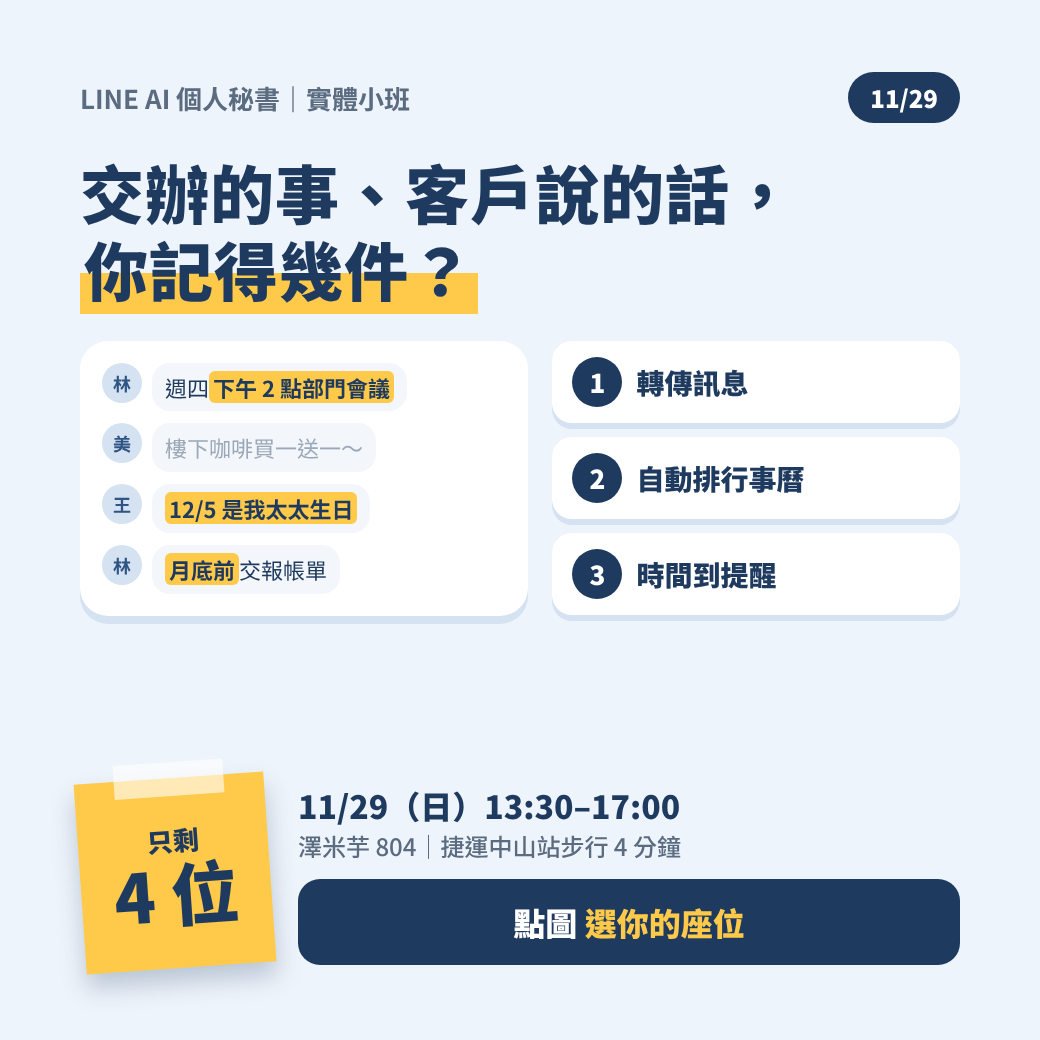
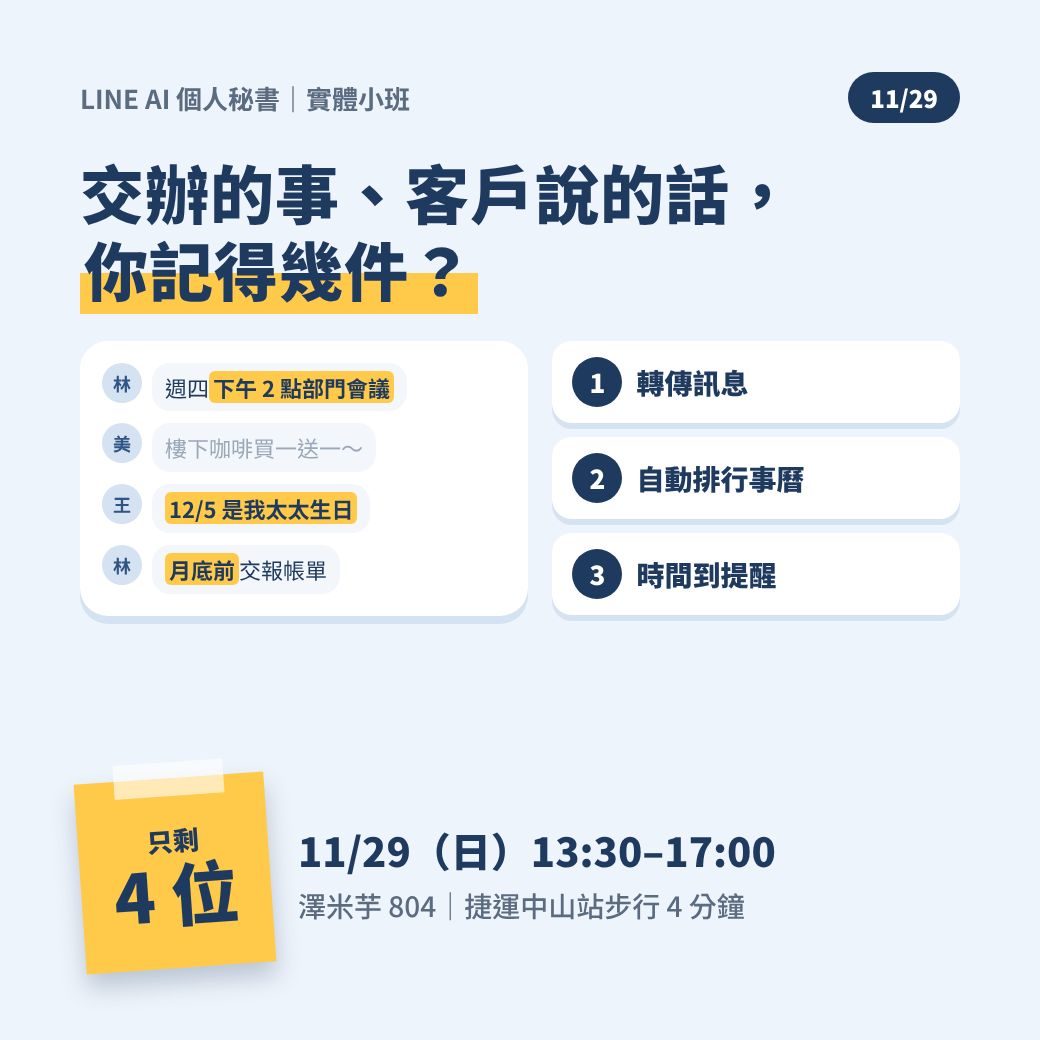
無價格版 LINE 圖拿掉點圖按鈕

Changed region(s): [[0.2769, 0.7385, 0.9231, 0.9538]]

diff --git a/dm-ai-secretary/aisec_line.html b/dm-ai-secretary/aisec_line.html
@@ -67,8 +67,8 @@ body{background:#888;font-family:"Noto Sans TC","WenQuanYi Zen Hei",sans-serif;c
 .aisec-solo-foot .aisec-note b{font-size:68px}
 .aisec-solo-foot .aisec-note small{font-size:26px}
 .aisec-solo-info{flex:1;display:flex;flex-direction:column;gap:16px}
-.aisec-solo-info p{font-size:32px;font-weight:900}
-.aisec-solo-info p small{display:block;font-size:24px;font-weight:500;color:var(--aisec-muted)}
+.aisec-solo-info p{font-size:40px;font-weight:900}
+.aisec-solo-info p small{display:block;font-size:28px;margin-top:6px;font-weight:500;color:var(--aisec-muted)}
 .aisec-solo-info .aisec-cta{margin:0;font-size:32px;padding:20px}
 </style>
 </head>
@@ -144,7 +144,6 @@ body{background:#888;font-family:"Noto Sans TC","WenQuanYi Zen Hei",sans-serif;c
     <div class="aisec-note"><small>只剩</small><b>4 位</b></div>
     <div class="aisec-solo-info">
       <p>11/29（日）13:30–17:00<small>澤米芋 804｜捷運中山站步行 4 分鐘</small></p>
-      <div class="aisec-cta">點圖 <span>選你的座位</span></div>
     </div>
   </div>
 </section>
